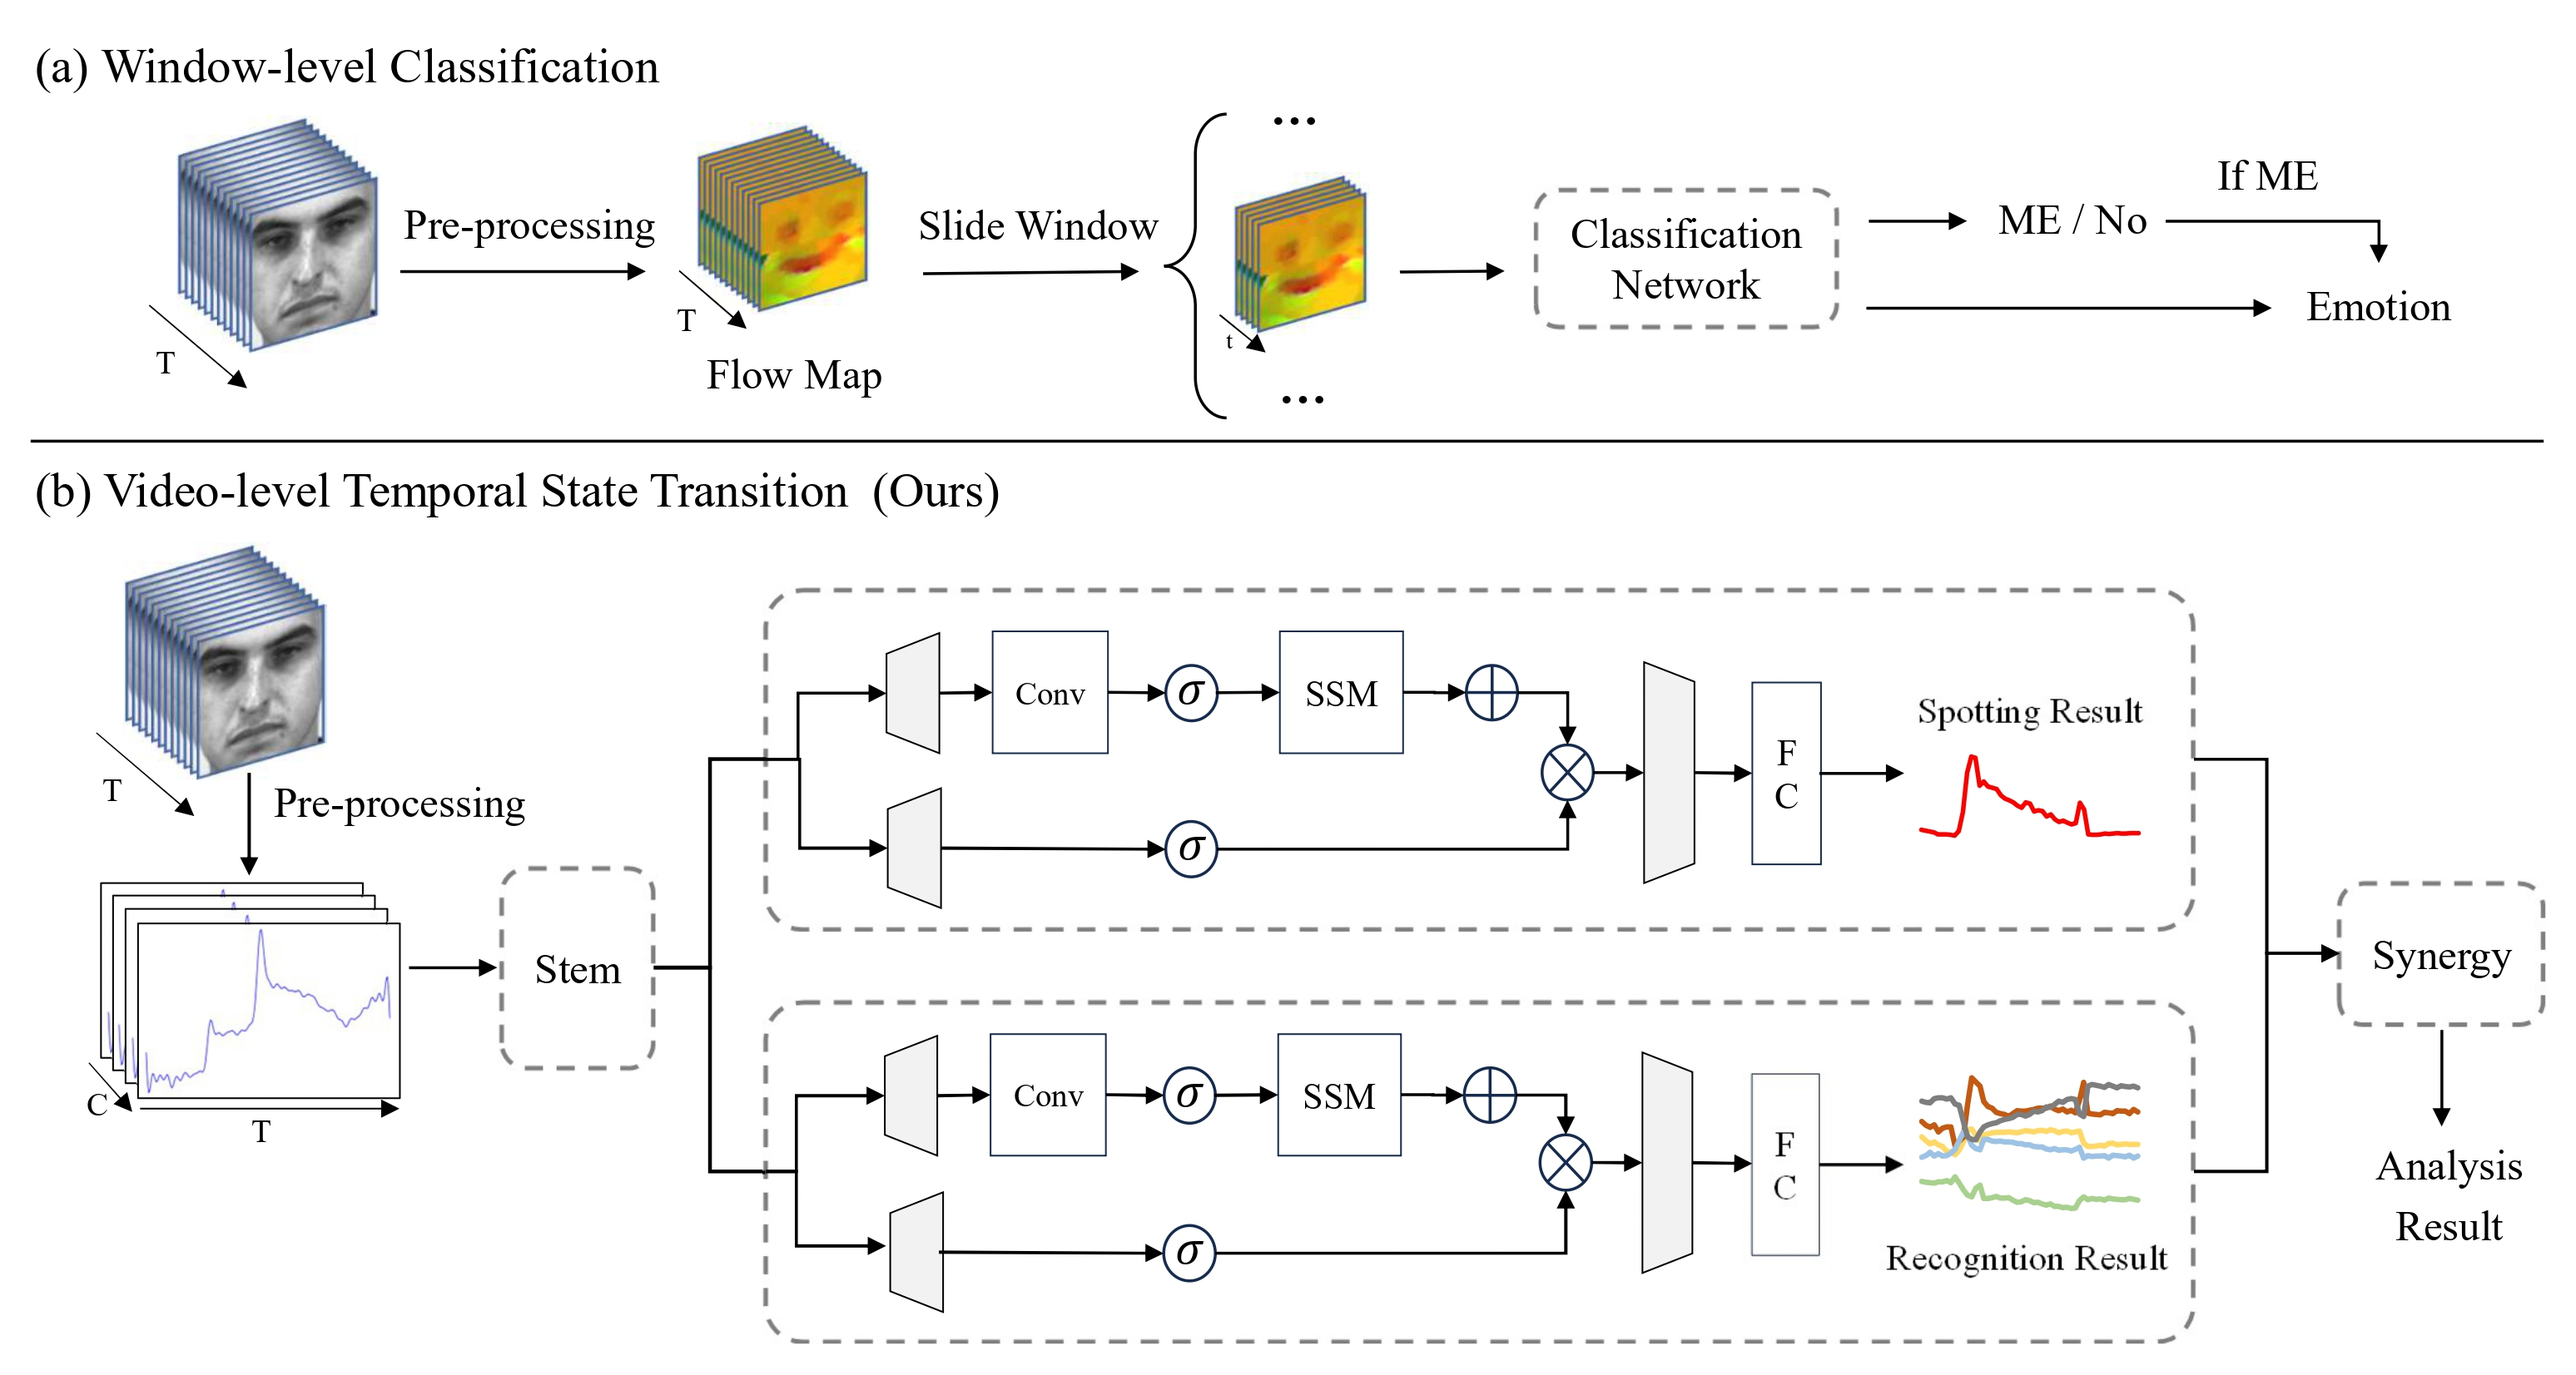
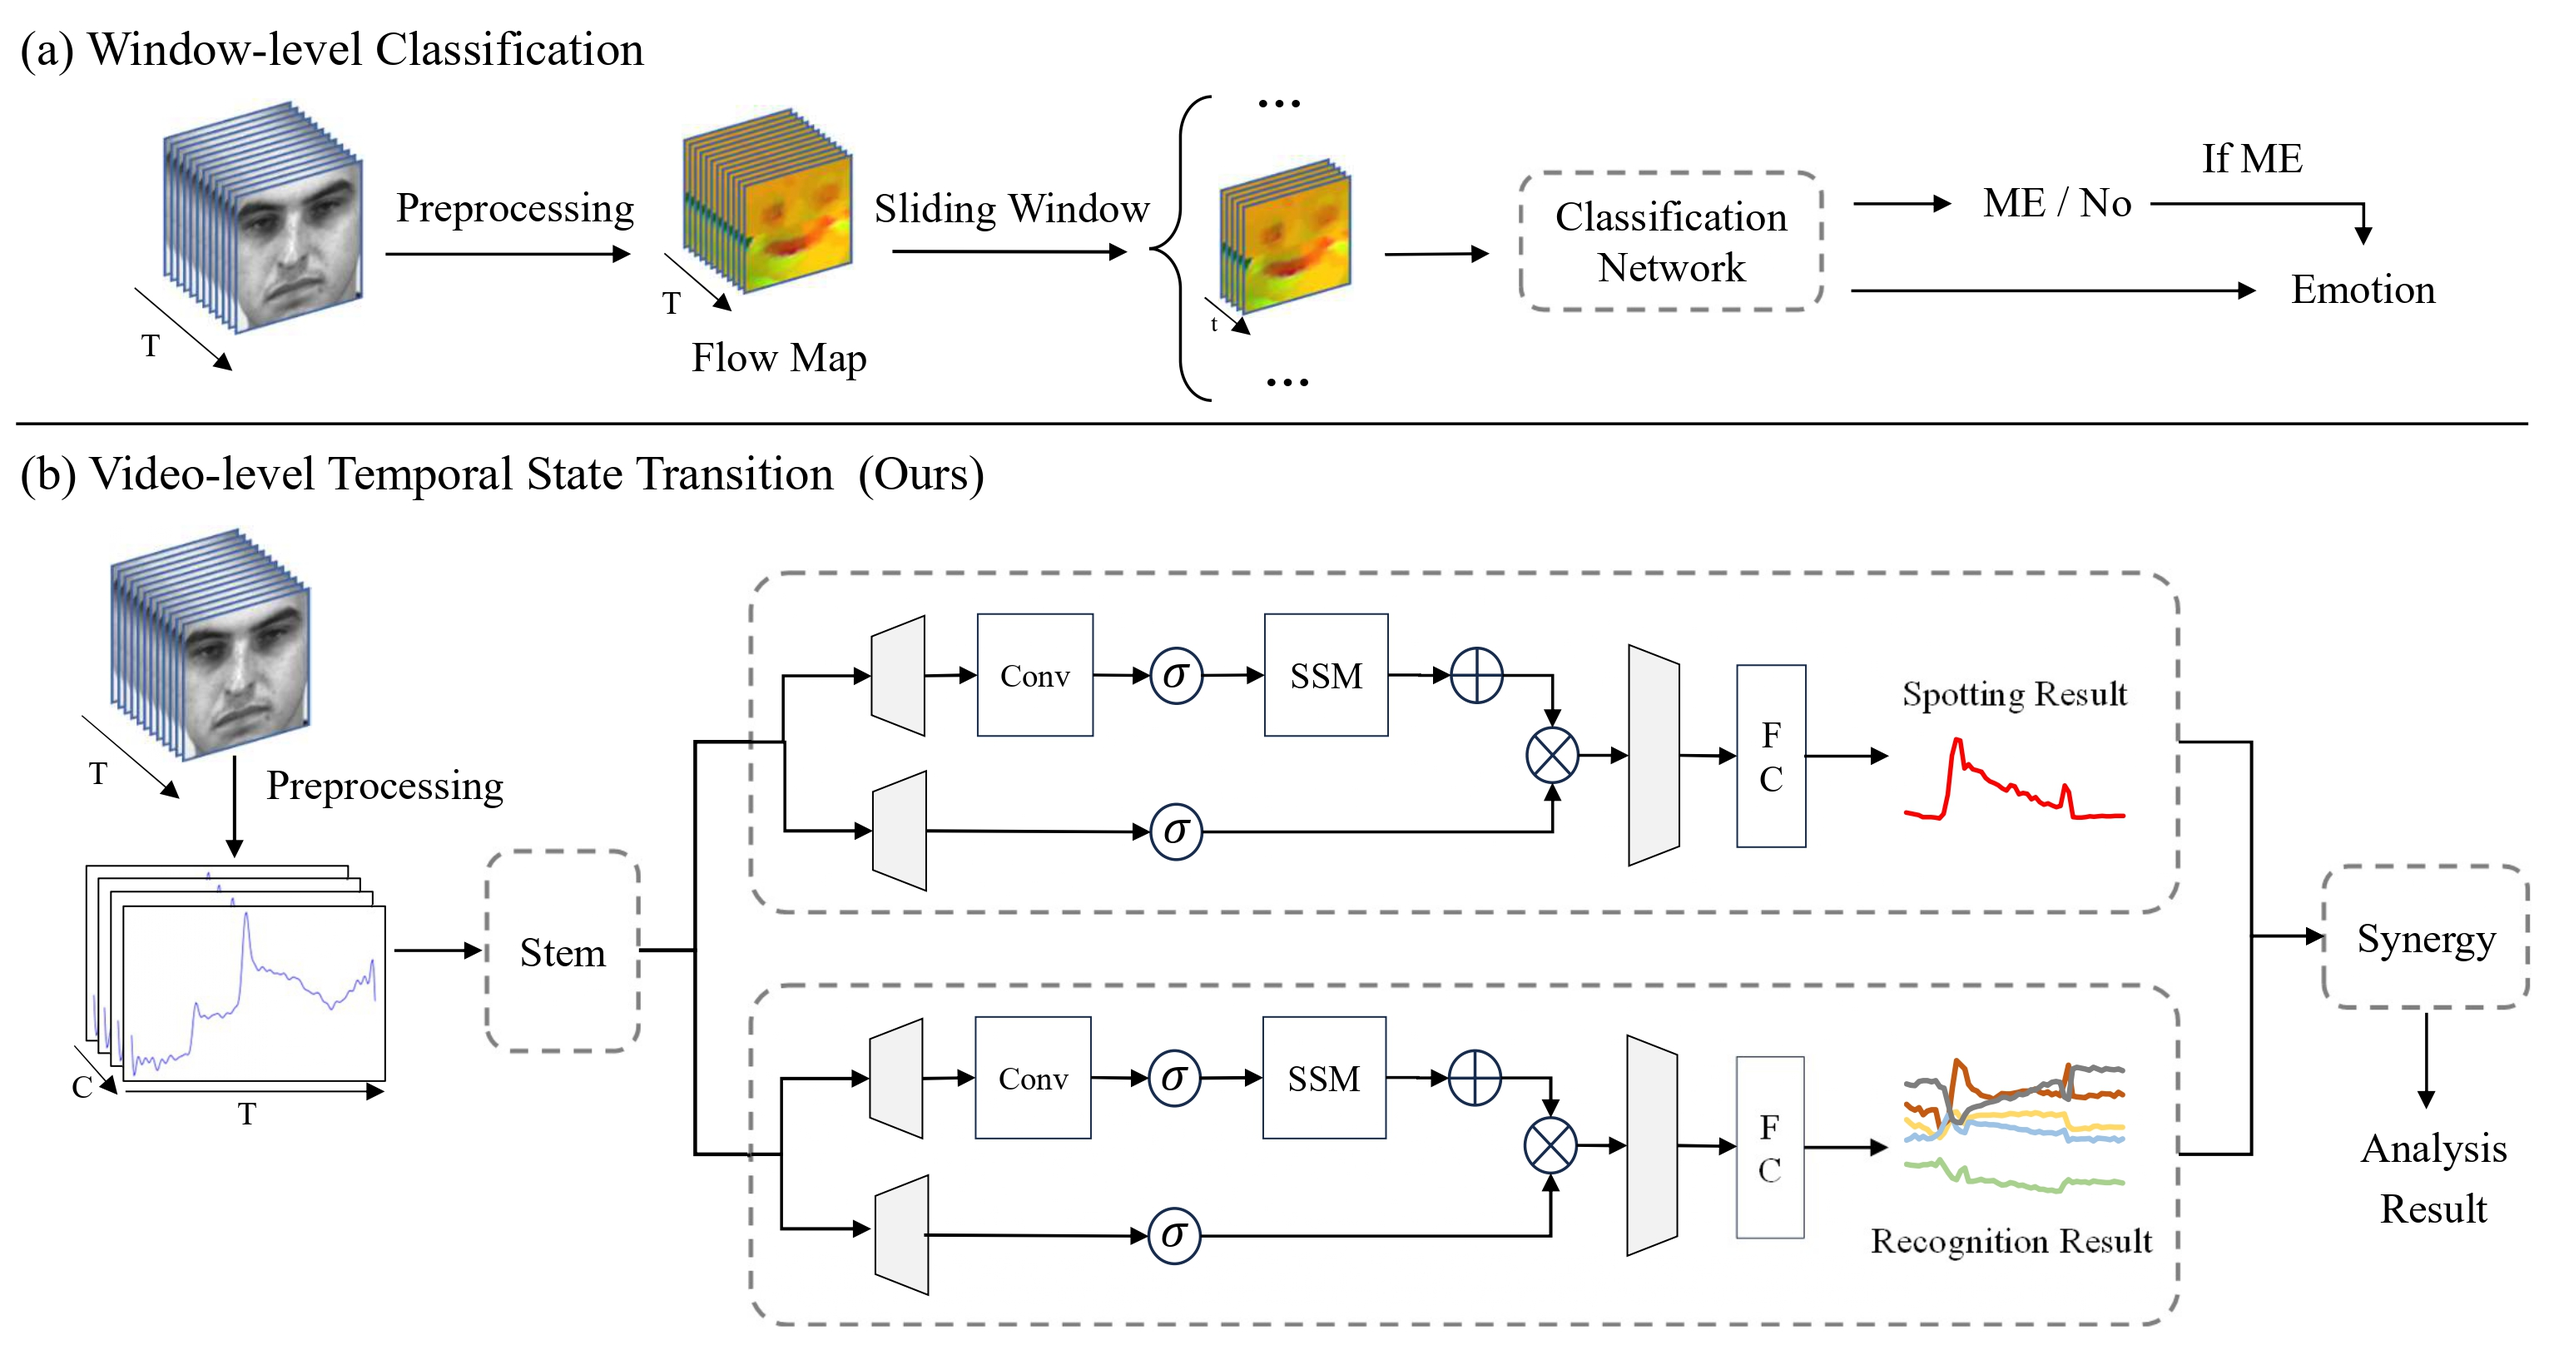
update

diff --git a/README.md b/README.md
@@ -1,7 +1,5 @@
 # ME-TST+
 
-
-
 <img src="./figures/framework.jpg" alt="framework" style="zoom: 25%;" />
 
 
@@ -55,5 +53,13 @@ If you find this repository helpful, please consider citing:
   organization={IEEE}
 }
 
-
+@misc{guo2025metst+,
+      title={ME-TST+: Micro-expression Analysis via Temporal State Transition with ROI Relationship Awareness}, 
+      author={Zizheng Guo and Bochao Zou and Junbao Zhuo and Huimin Ma},
+      year={2025},
+      eprint={2508.08082},
+      archivePrefix={arXiv},
+      primaryClass={cs.CV},
+      url={https://arxiv.org/abs/2508.08082}, 
+}
 ```
